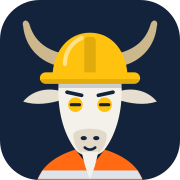
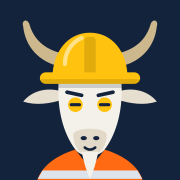
fix(pwa): ícone do iPhone quadrado e sem transparência

diff --git a/tests/unit/app-icons.test.ts b/tests/unit/app-icons.test.ts
@@ -1,0 +1,13 @@
+import sharp from "sharp";
+import { describe, expect, it } from "vitest";
+
+describe("apple-icon.png", () => {
+  // iOS rounds the icon itself and paints transparent pixels black.
+  it("is a square 180x180 with no transparency", async () => {
+    const image = sharp("app/apple-icon.png");
+    const { width, height } = await image.metadata();
+    const { isOpaque } = await image.stats();
+    expect([width, height]).toEqual([180, 180]);
+    expect(isOpaque).toBe(true);
+  });
+});
